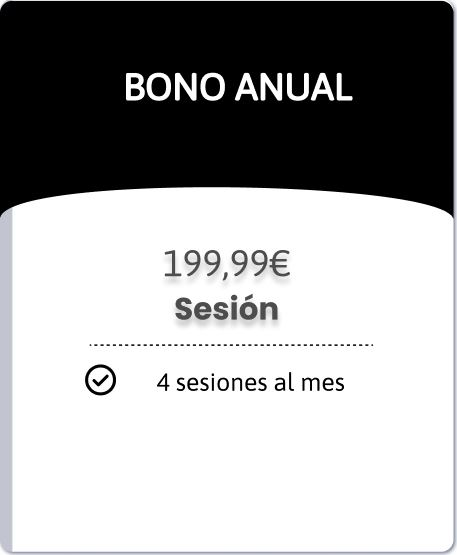
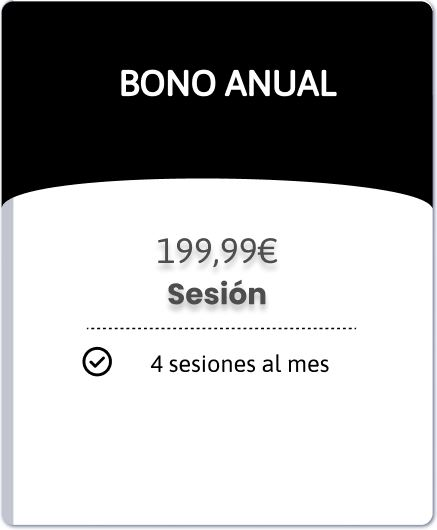
corregidas imagenes y centradas en tarifas

diff --git a/tarifas.html b/tarifas.html
@@ -32,14 +32,31 @@
                 <div class = "contenedor-imagen">
                 <img src= "img/tarifaIndividual.JPG" alt="BonoIndiv">
                 </div>
-                <p class="bono-individual">CARDIO WORKOUTS</p>
+                <p class="bono-individual">
+                    Incluye:
+                    Plataforma psicológica
+                    Todas las funcionabilidades
+                    Blog comunitario
+                    1GB almacenamiento
+                    Actualizaciones
+                    Soporte Técnico
+                    Consultas online
+                </p>
                 <a class="button cta" href="error.html">Quiero este plan</a>
             </div>   
             <div class = "bono mensual">
                 <div class = "contenedor-imagen">
                 <img src= "img/tarifaMensual.JPG" alt="BonoMensual">
                 </div>
-                <p class="bono-individual">CARDIO WORKOUTS
+                <p class="bono-mensual">
+                    Incluye:
+                    Plataforma psicológica
+                    Todas las funcionabilidades
+                    Blog comunitario
+                    1GB almacenamiento
+                    Actualizaciones
+                    Soporte Técnico
+                    Consultas online
                 </p>
                 <a class="button cta" href="error.html">Quiero este plan</a>
             </div> 
@@ -47,7 +64,16 @@
                 <div class = "contenedor-imagen">
                 <img src= "img/tarifaAnual.JPG" alt="BonoAnual">
                 </div>
-                <p class="bono-individual">CARDIO WORKOUTS</p>
+                <p class="bono-mensual">
+                    Incluye:
+                    Plataforma psicológica
+                    Todas las funcionabilidades
+                    Blog comunitario
+                    1GB almacenamiento
+                    Actualizaciones
+                    Soporte Técnico
+                    Consultas online
+                </p>
                 <a class="button cta" href="error.html">Quiero este plan</a>
             </div> 
         </div>

diff --git a/css/styles.css b/css/styles.css
@@ -259,9 +259,24 @@ fieldset {
     width: 15px;
 }
 
+/*Tarjetas*/
+.contenedor-tarjetas{
+    display:flex;
+    justify-content: space-around;
+    padding: 8rem;
+    align-items: center
+    justify-content: space-between;
+}
 
+.contenedor-imagen {
+    display:inline-block;
+    position:relative;
+}
 
-
+.contenedor-imagen img {
+    max-width: 100%;
+    max-height: 100%;
+   }
 /*Footer*/
 .footer {
     background-color: var(--colorFondoClaro);
